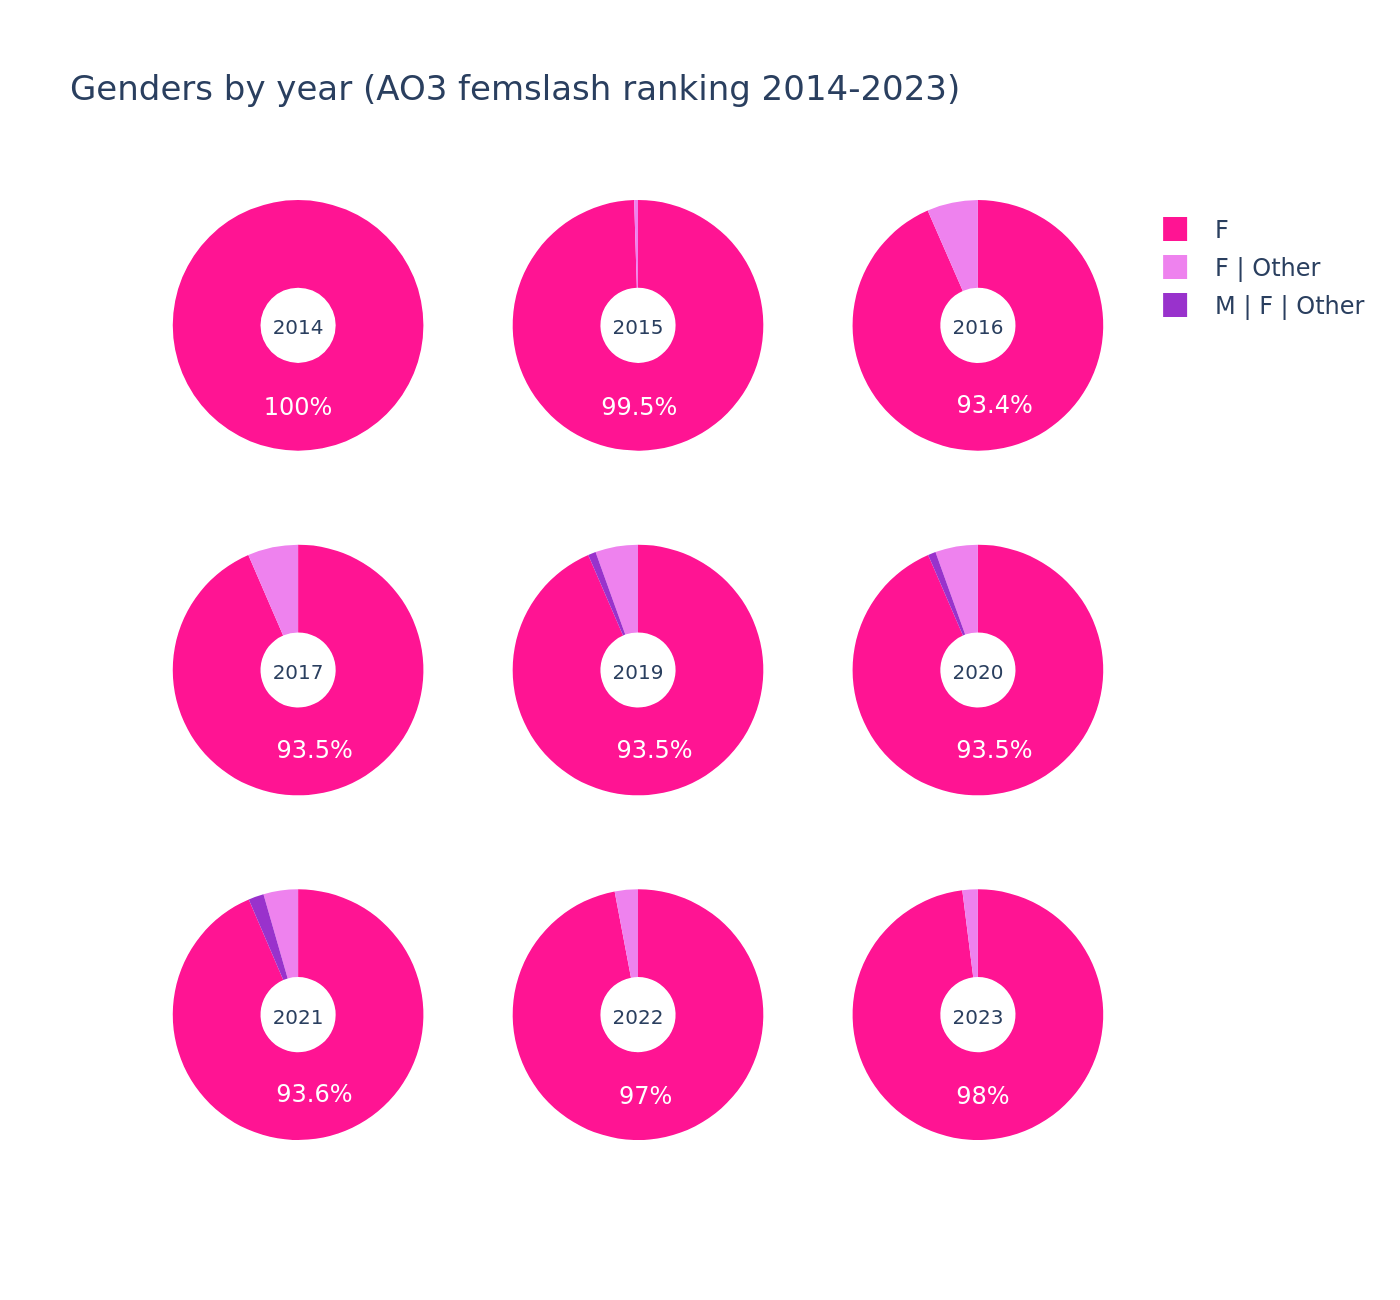
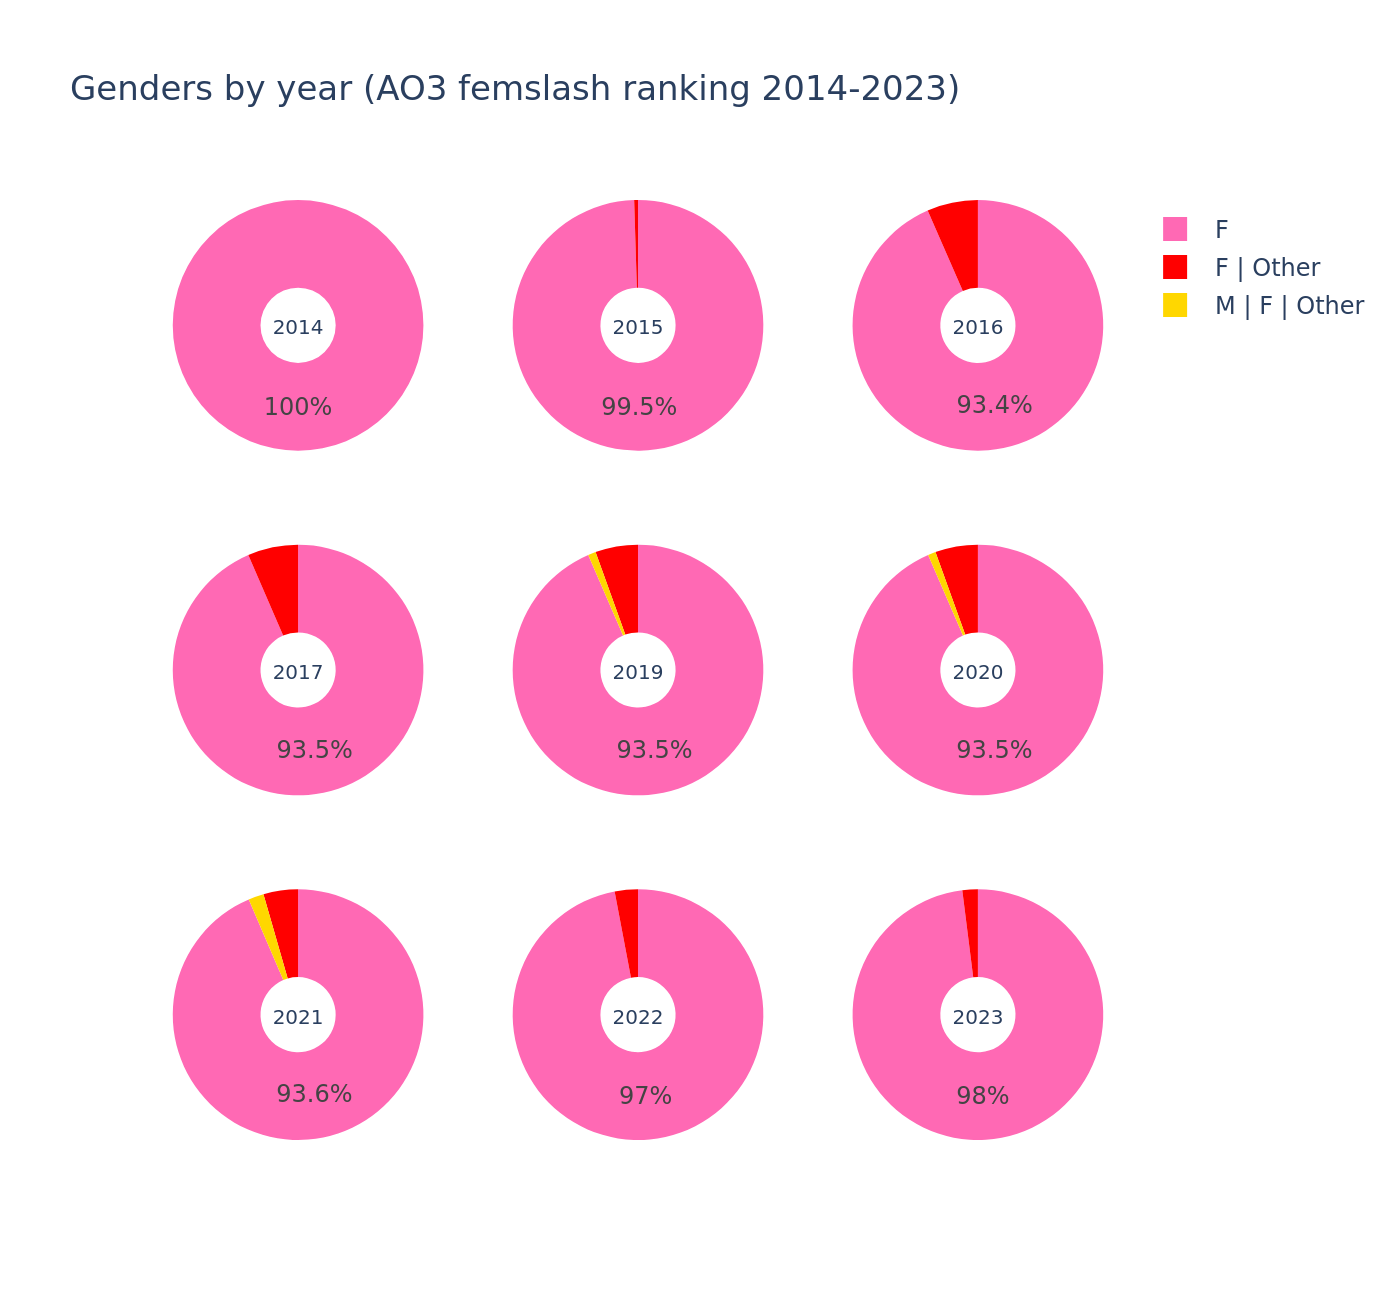
make femslash genders same gender colours as other diagrams

diff --git a/visualisation/diagram_code/visualise_pies.py b/visualisation/diagram_code/visualise_pies.py
@@ -62,7 +62,7 @@ def visualise_pies(input_item:pd.DataFrame|dict, data_case:str, ranking:str):
         colours = ["deeppink", "darkred"]
     elif data_case == "gender":
         title = f"Genders by year{suffix}"
-        colours = colour_palettes.violets
+        #colours = colour_palettes.violets
     elif data_case in ["race", "race_combos"]:
         colourway = px.colors.qualitative.Pastel + px.colors.qualitative.Prism + \
         px.colors.qualitative.Vivid + px.colors.qualitative.Bold
@@ -105,8 +105,7 @@ def visualise_pies(input_item:pd.DataFrame|dict, data_case:str, ranking:str):
         elif data_case == "gender":
             labels = year_df["gender"]
             values = year_series
-            if ranking == "overall":
-                colours = [colour_palettes.gender_colours[gender] for gender in year_df["gender"]]
+            colours = [colour_palettes.gender_colours[gender] for gender in labels]
         elif data_case in ["race", "race_combos"]:
             labels = year_series.index
             if ranking == "femslash":
